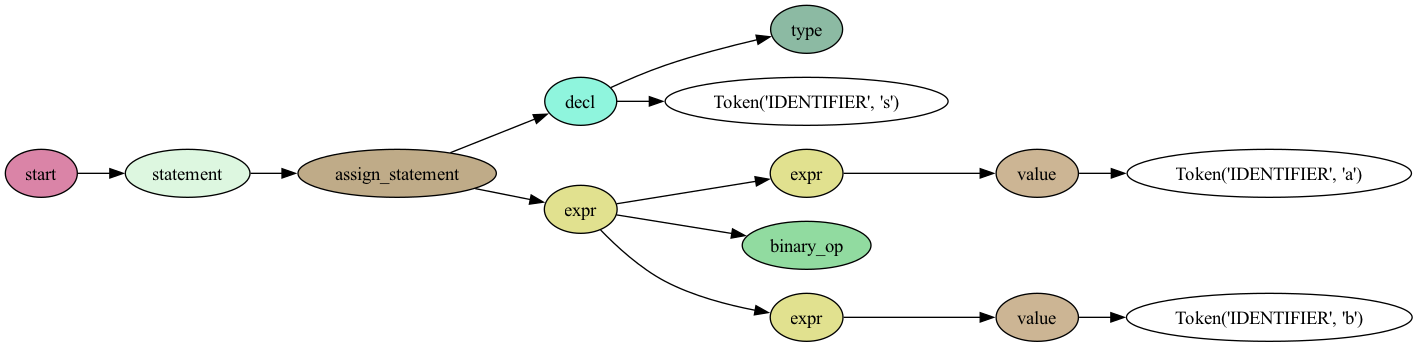
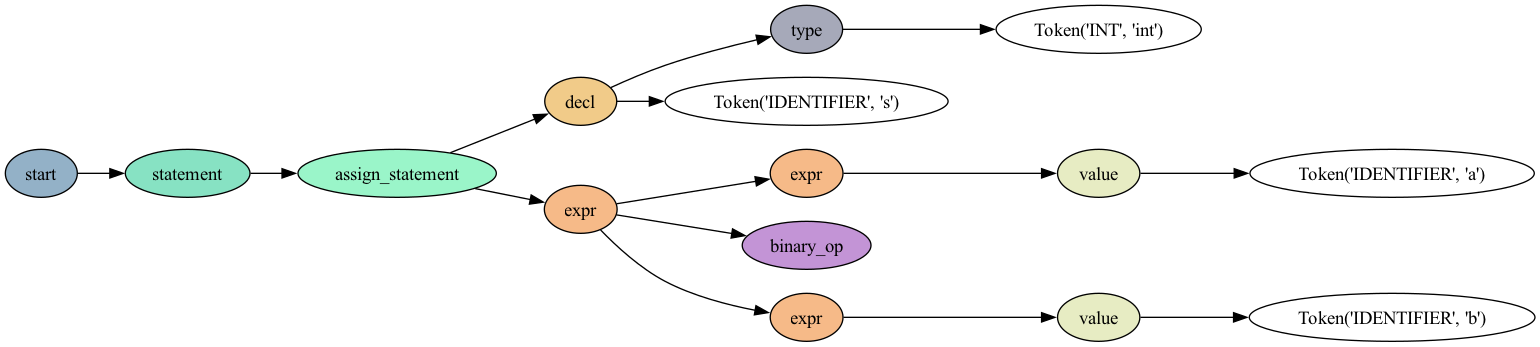
l

diff --git a/tpc2_lark.py b/tpc2_lark.py
@@ -60,10 +60,11 @@ class MyInterpreter(Interpreter):
         self.visit_children(tree)
 
     def declfunc(self,tree):
-        tipo = tree.children[0]
+        tipo = self.visit(tree.children[0])
         
         nomeVAR = tree.children[2]
-        tipo = f"{tipo}-{tree.children[1]}"
+        tipoCOMP = self.visit(tree.children[1])
+        tipo = f"{tipo}-{tipoCOMP}"
         
 
         if f"{nomeVAR}-{self.scope}" in self.dicVar:
@@ -74,12 +75,13 @@ class MyInterpreter(Interpreter):
 
     def decl(self,tree):
         nomeVAR = None
-        tipo = tree.children[0]
-        print("tipo",tree)
+        tipo = self.visit(tree.children[0])
+        print("tipo",tipo)
         
         if len(tree.children) == 3:
             nomeVAR = tree.children[2]
-            tipo = f"{tipo}-{tree.children[1]}"
+            compTIPO = self.visit(tree.children[1])
+            tipo = f"{tipo}-{compTIPO}"
         else:
             nomeVAR = tree.children[1]
         print("nomevar",nomeVAR)
@@ -164,7 +166,7 @@ class MyInterpreter(Interpreter):
                 dic = self.dicVar[f"{value}-{self.scope}"]
                 comparatorIdentifier(dic)
             else:
-                self.dicVar[f"{value}-{self.scope}"] = (None,False,False,True,True,False)
+                self.dicVar[f"{value}-{self.scope}"] = (None,False,False,True,True,False) #variaveis declaradas mas nunca mencionadas
         else:   
             self.visit_children(tree)
 
@@ -215,7 +217,6 @@ class MyInterpreter(Interpreter):
         return str(tree.children[0])
 
     def type(self,tree):
-        print("TreeType",tree.children[0])
         return str(tree.children[0])
 
 grammar = '''
@@ -225,7 +226,7 @@ declaration: type comp_type? IDENTIFIER "(" paramsfunc? ")" "{" body* "}"
 
 paramsfunc: declfunc ("," declfunc)*
 
-comp_type: ("array" | "list" | "set")
+comp_type: (ARRAY | LIST | SET)
 
 declfunc: type comp_type? IDENTIFIER 
 decl: type comp_type? IDENTIFIER 
@@ -274,12 +275,22 @@ unary_op: "++" | "--"
 array_access: IDENTIFIER "[" expr "]"
 set_access: IDENTIFIER "{" expr "}"
 
-type: "int"
-    | "string"
-    | "bool"
-    | "boolean"
-    | "tuple"
-    | "void"
+type: INT
+    | STRINGG
+    | BOOL
+    | BOOLEAN
+    | TUPLE
+    | VOID
+
+INT: "int"
+STRINGG: "string"
+BOOL: "bool"
+BOOLEAN: "boolean"
+TUPLE: "tuple"
+VOID: "void"
+ARRAY: "array"
+LIST: "list"
+SET: "set"
 
 int: INTEGER 
 string: STRING
@@ -457,7 +468,7 @@ dic = MyInterpreter().visit(tree)
 #exercicio 1
 listaRedeclaracoes = []
 listaNaoRedeclaracoes = []
-listaNaoUsadas = []
+listaNaoInicializadas = []
 listaNaoMencionadas = []
 
 for key, value in dic.items():
@@ -471,15 +482,15 @@ for key, value in dic.items():
     if(bool2):
         listaNaoRedeclaracoes.append(key)
     if(bool3):
-        listaNaoUsadas.append(key)
+        listaNaoInicializadas.append(key)
     if not(bool4):
 
         listaNaoMencionadas.append(key)
 
 print("Variaveis redeclaradas: ", listaRedeclaracoes)
-print("Variaveis nao redeclaradas: ", listaNaoRedeclaracoes)
-print("Variaveis nao usadas: ", listaNaoUsadas)
-print("Variaveis nao mencionadas: ", listaNaoMencionadas)
+print("Variaveis não declaradas: ", listaNaoRedeclaracoes)
+print("Variaveis usadas mas não inicializadas(sem valor): ", listaNaoInicializadas)
+print("Variaveis nao mencionadas mas declaradas: ", listaNaoMencionadas)
 
 #exericio 2
 dicTipos = {}
